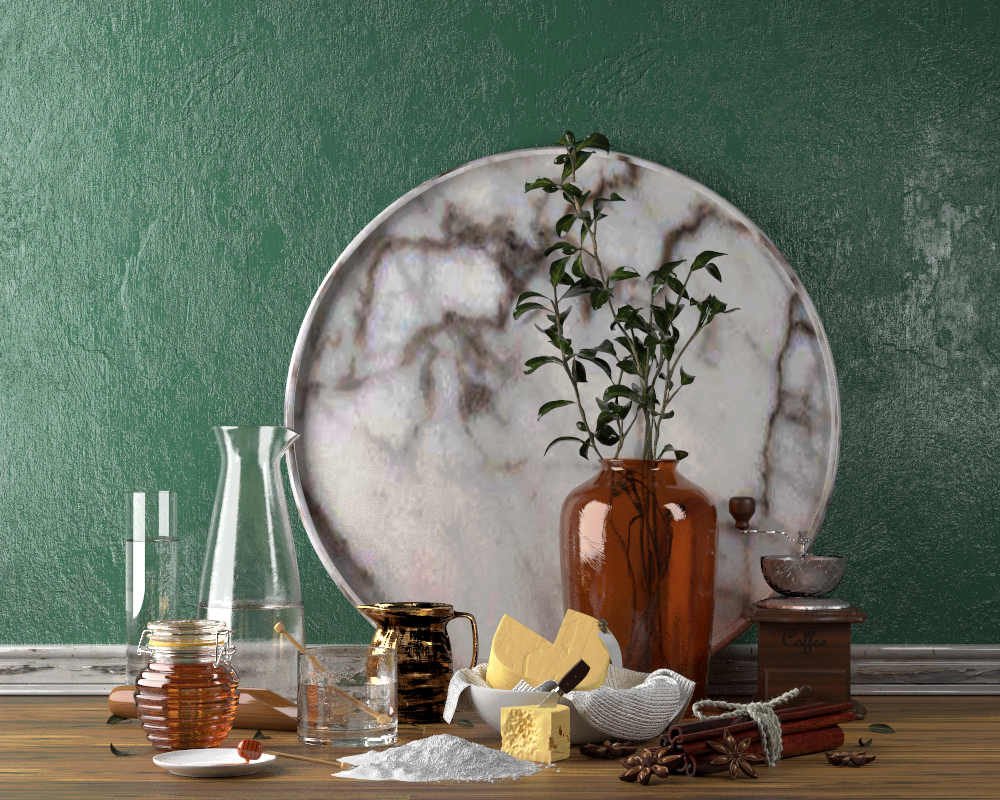
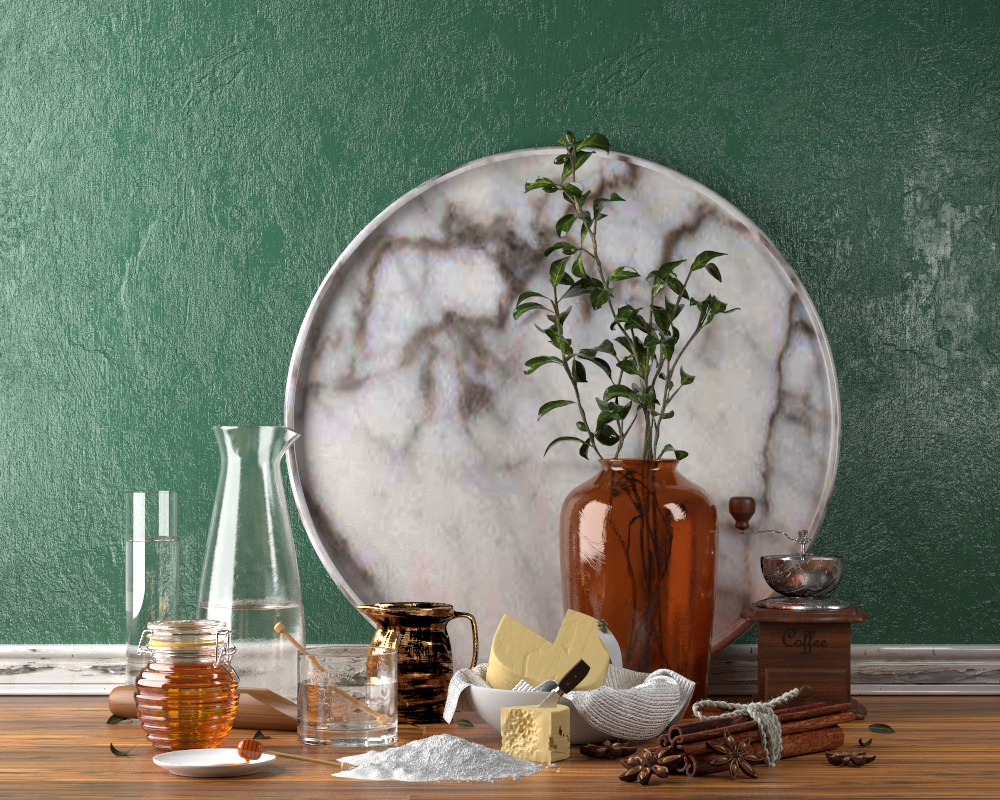
update images

diff --git a/src/Graphics/Vulkan/PathTracer/applications/PathTracer.cpp b/src/Graphics/Vulkan/PathTracer/applications/PathTracer.cpp
@@ -8,7 +8,7 @@ namespace cvk = crv::graphics::vulkan;
 
 int main() {
     const cvk::PathTracerAppCreateInfo createInfo {
-        .scenePath = SCENES_PATH"spaceship.json",
+        .scenePath = SCENES_PATH"bistro_exterior_orig.json",
     };
     cvk::PathTracerApp app(createInfo);
     app.run();
